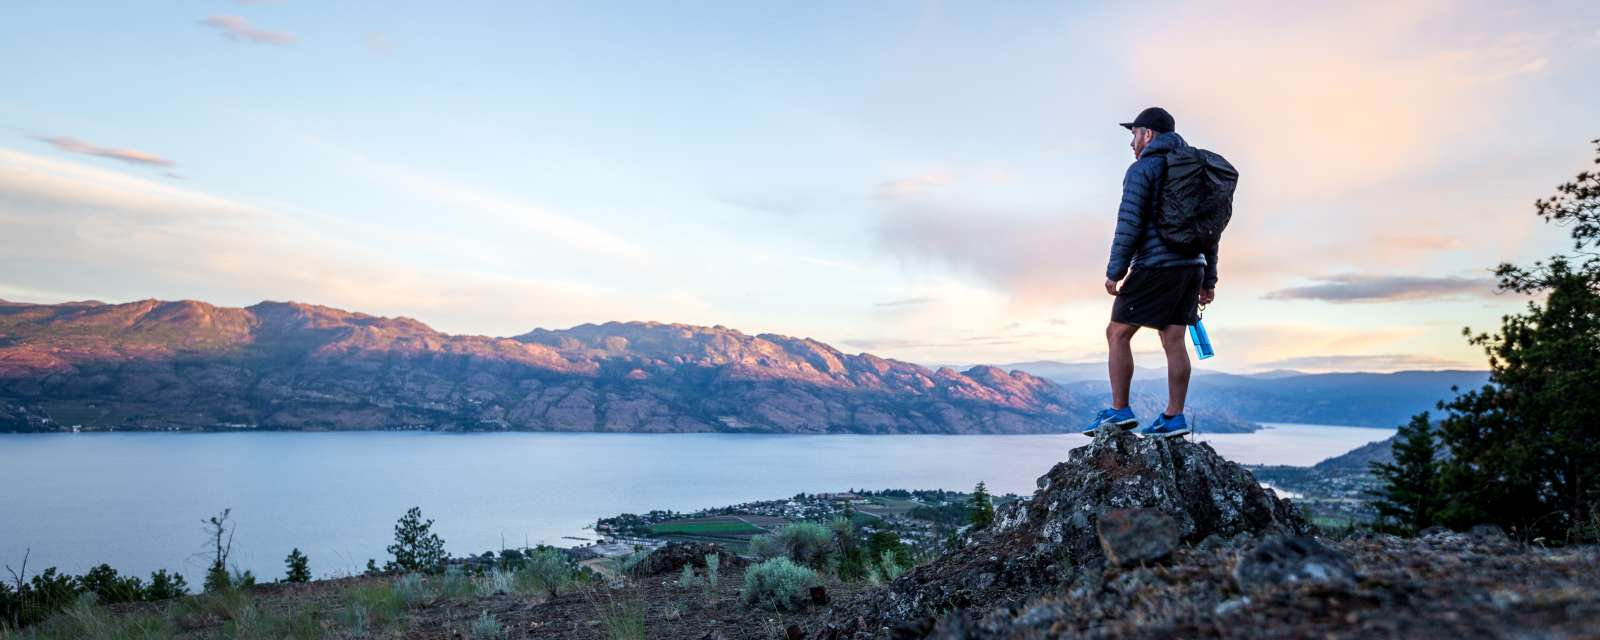
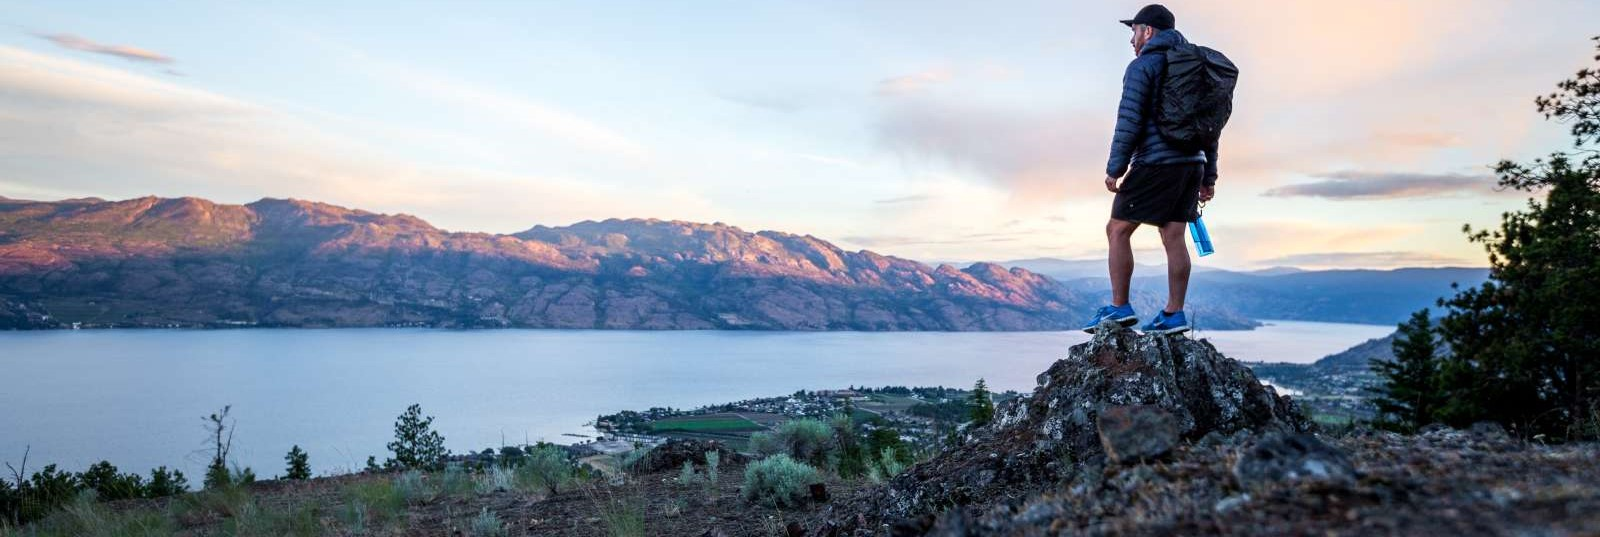
mobile capable layout

diff --git a/hikestores.html b/hikestores.html
@@ -24,13 +24,12 @@
         </nav>
     </header>
     <!--this hero should be a little smaller than the hike details hero-->
+    <section class="hero"></section>
     <section>
+        <h3>Hike Found:</h3>
         <!--use this ID to attach dynamic elements-->
         <div id="api-hike-detailp3" class="card">
-            <!--example of elements that need to be dynamically created-->
-            <div class="card-image">
-                <img id="hero3-img" src="./assets/images/mountains.jpg">
-            </div>
+            
             <div id="card-contentp3" class="card-content flow-text">
             </div>
         </div>
@@ -53,39 +52,18 @@
         </div>
 
         <div class="section">
-            <h5>Stores found near your hike:</h5>
-            <!-- use this ID to append API Data
-            <div id="hike-containers">
-                <div class="container">
-                    HIKING STORE OPTIONS ARE APPENDED HERE
-                    -->
-                    <!-- <div class="row">
-                        <div class="col s12 m6 l4">
-                            <div class="card">
-                                <div class="card-image">
-                                    <img src="./assets/images/mountains.jpg">
-                                    <span class="card-title">Card Title</span>
-                                </div>
-                                <div class="card-content">
-                                    <p>Name of store </br> Address: </br> Distance?
-                                    </p>
-                                </div>
-                                <div class="card-action">
-                                    <a href="#">Directions</a>
-                                </div>
-                            </div>
-                        </div>
-                    </div>
-                </div>
-            </div> -->
+            <h5>Stores found nearby:</h5>
+           
         </div>
 
     </main>
     <!--Google Map, Store List, Selected Store Detail and Store Search History div-->
-    <div id="map" class="container">
+    <div id="map" class="section" >
     </div>
-    <div id="storeSearchHistory" class="container">
+    
+    <div id="storeSearchHistory" class="section">
     </div>
+   
     <footer class="page-footer black lighten-2">
         <div class="footer-copyright black lighten-2">
             <div class="container">
@@ -100,7 +78,7 @@
         src="https://maps.googleapis.com/maps/api/js?key=AIzaSyAWVEsp8JBkgZyxhUjCaO2o7XN61ULxz6w&callback=main&libraries=places&v=weekly"
         defer></script>
     <script src="./assets/js/storesearch.js"></script>
-    <script src="./assets/js/script.js"></script>
+   
 </body>
 
 </html>

diff --git a/index.html b/index.html
@@ -18,7 +18,6 @@
             <div class="nav-wrapper black lighten-2">
                 <a class="brand-logo">HIKE FINDER</a>
                 <ul id="nav-mobile" class="right hide-on-med-and-down">
-                    <li><a href="hike">My Hikes</a></li>
                 </ul>
             </div>
         </nav>
@@ -67,7 +66,7 @@
     <!-- Container for search bar -->
     <main class="container">
         <div>
-            <h3 class="flow-text">Where do you want to explore today?</h3>
+            <h4 class="flow-text">Where do you want to explore today?</h4>
         </div>
         <div class="search-container ">
             <form id="location-search-form">
@@ -82,7 +81,7 @@
             </ul>
         </div>
         <!-- List of hikes in local area -->
-        <h4 class="flow-text" id="search-result">Enter a location to view local hikes!</h4>
+        <h3 class="flow-text" id="search-result">Enter a location to view local hikes!</h3>
         <div id="hike-search-container" class="row">
     </main>
     <!-- Footer -->
@@ -93,7 +92,7 @@
                     <p class="grey-text text-lighten-4"> Exercise your heart ❤ </p>
                 </div>
                 <div class="col l4 offset-l2 s12">
-                    <h5 class="white-text">Contact Us</h5>
+                    <h4 class="white-text">Contact Us</h4>
                     <address>
                         21 Jump Street <br />
                         Springfield, CA <br />

diff --git a/assets/css/style.css b/assets/css/style.css
@@ -17,10 +17,10 @@ nav a:hover {
 
 /* Hero Style Start */
 
-/* .hero {
-    background-image: url("../images/mountains.jpg");
-    background-size: cover;
-    background-position: 80%;
+.hero {
+    background-image: url("../images/person-hiking.jpg");
+   
+    
     background-attachment: fixed;
     min-height: 15rem;
 }
@@ -28,15 +28,15 @@ nav a:hover {
 
 /* Hero Style End */
 
-/* #hero3-img {
+#hero-img {
     max-height: 15rem;
-} */ 
+} 
 
 .slider {
     background-position: 80%;
 }
 
-h3 {
+h4 {
     animation: bounce;
     animation-duration: 2s;
 }
@@ -56,8 +56,9 @@ h5 {
 }
 
 #StoreList {
-    text-align: inherit;
-    font-size: x-large;
+    margin-top: 50px;
+    margin-bottom: 50px;
+    font-size: large;
     color: blue;
 }
 
@@ -69,4 +70,13 @@ body {
     height: 100%;
     margin: 1;
     padding: 1;
+}
+
+.hike-name {
+    font-weight: bold;
+}
+
+#storeSearchHistory {
+    font-weight: bold;
+    font-size: 5rem;
 }

diff --git a/assets/js/storesearch.js b/assets/js/storesearch.js
@@ -247,6 +247,7 @@ var buildTrailDetails = function(trail) {
 
     var hikeNameEl = document.createElement("p");
     hikeNameEl.textContent = trail.name;
+    hikeNameEl.classList = "hike-name";
     var hikeCityEl = document.createElement("p");
     hikeCityEl.textContent = trail.location;
 
